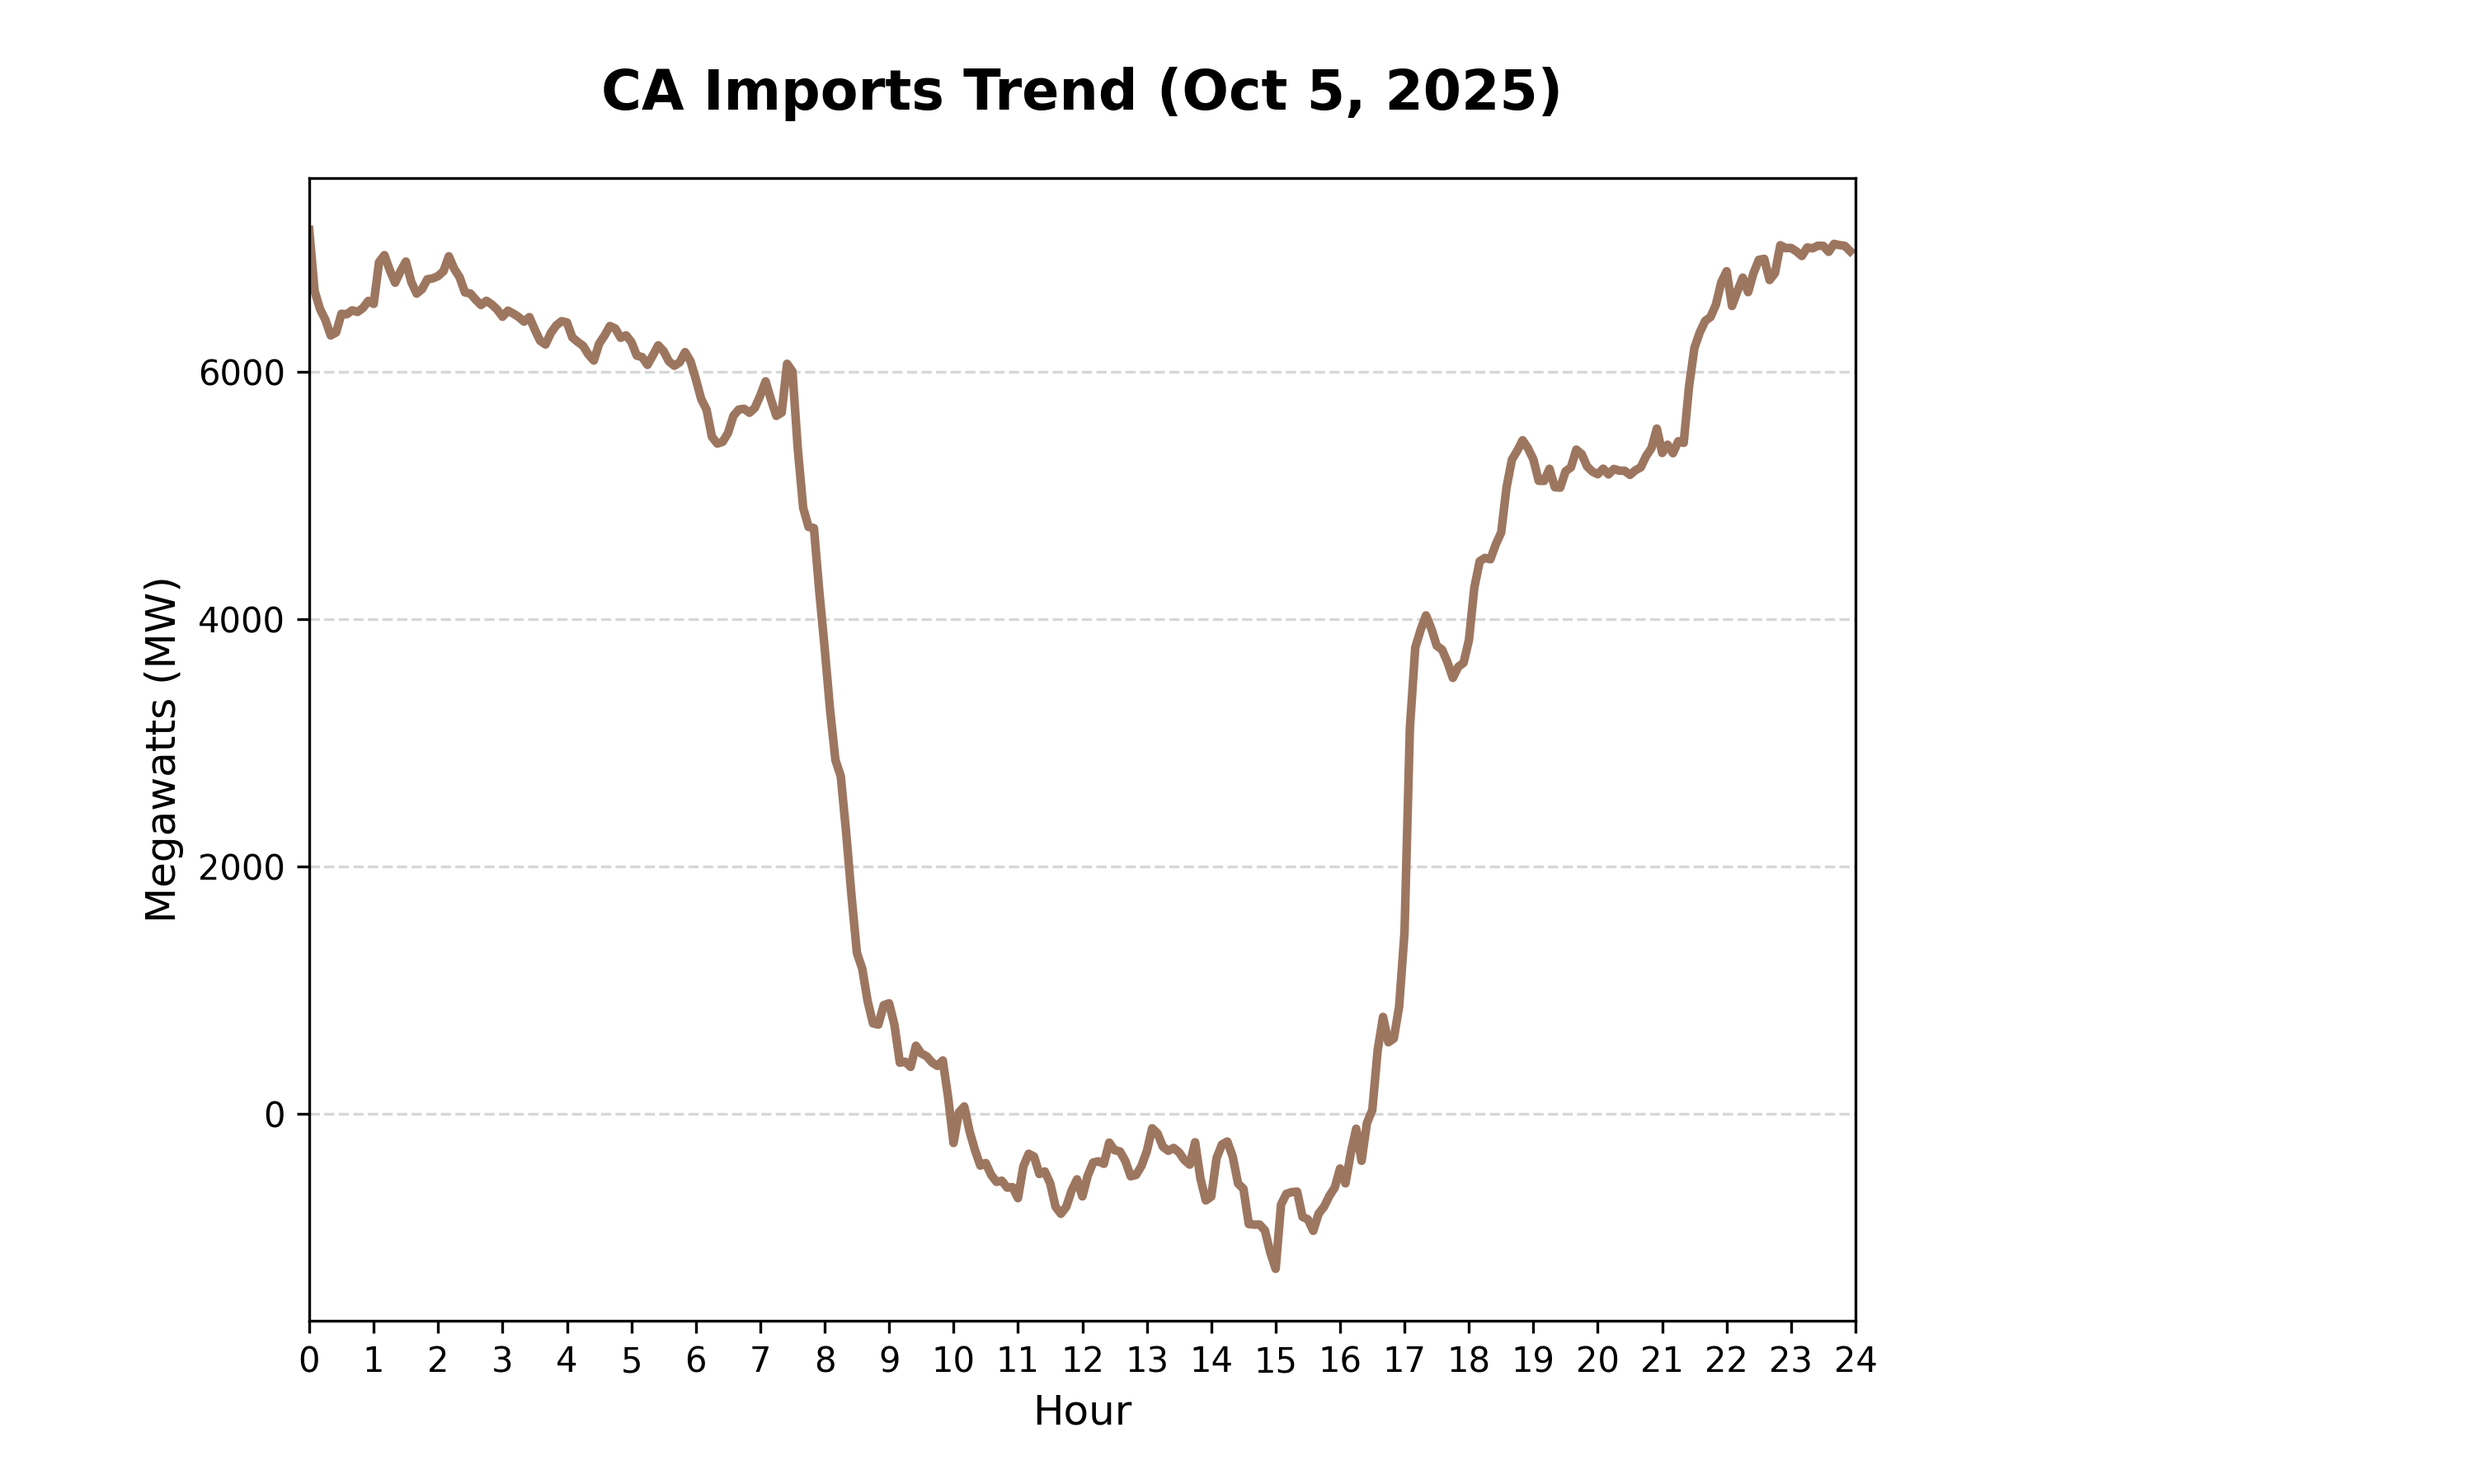
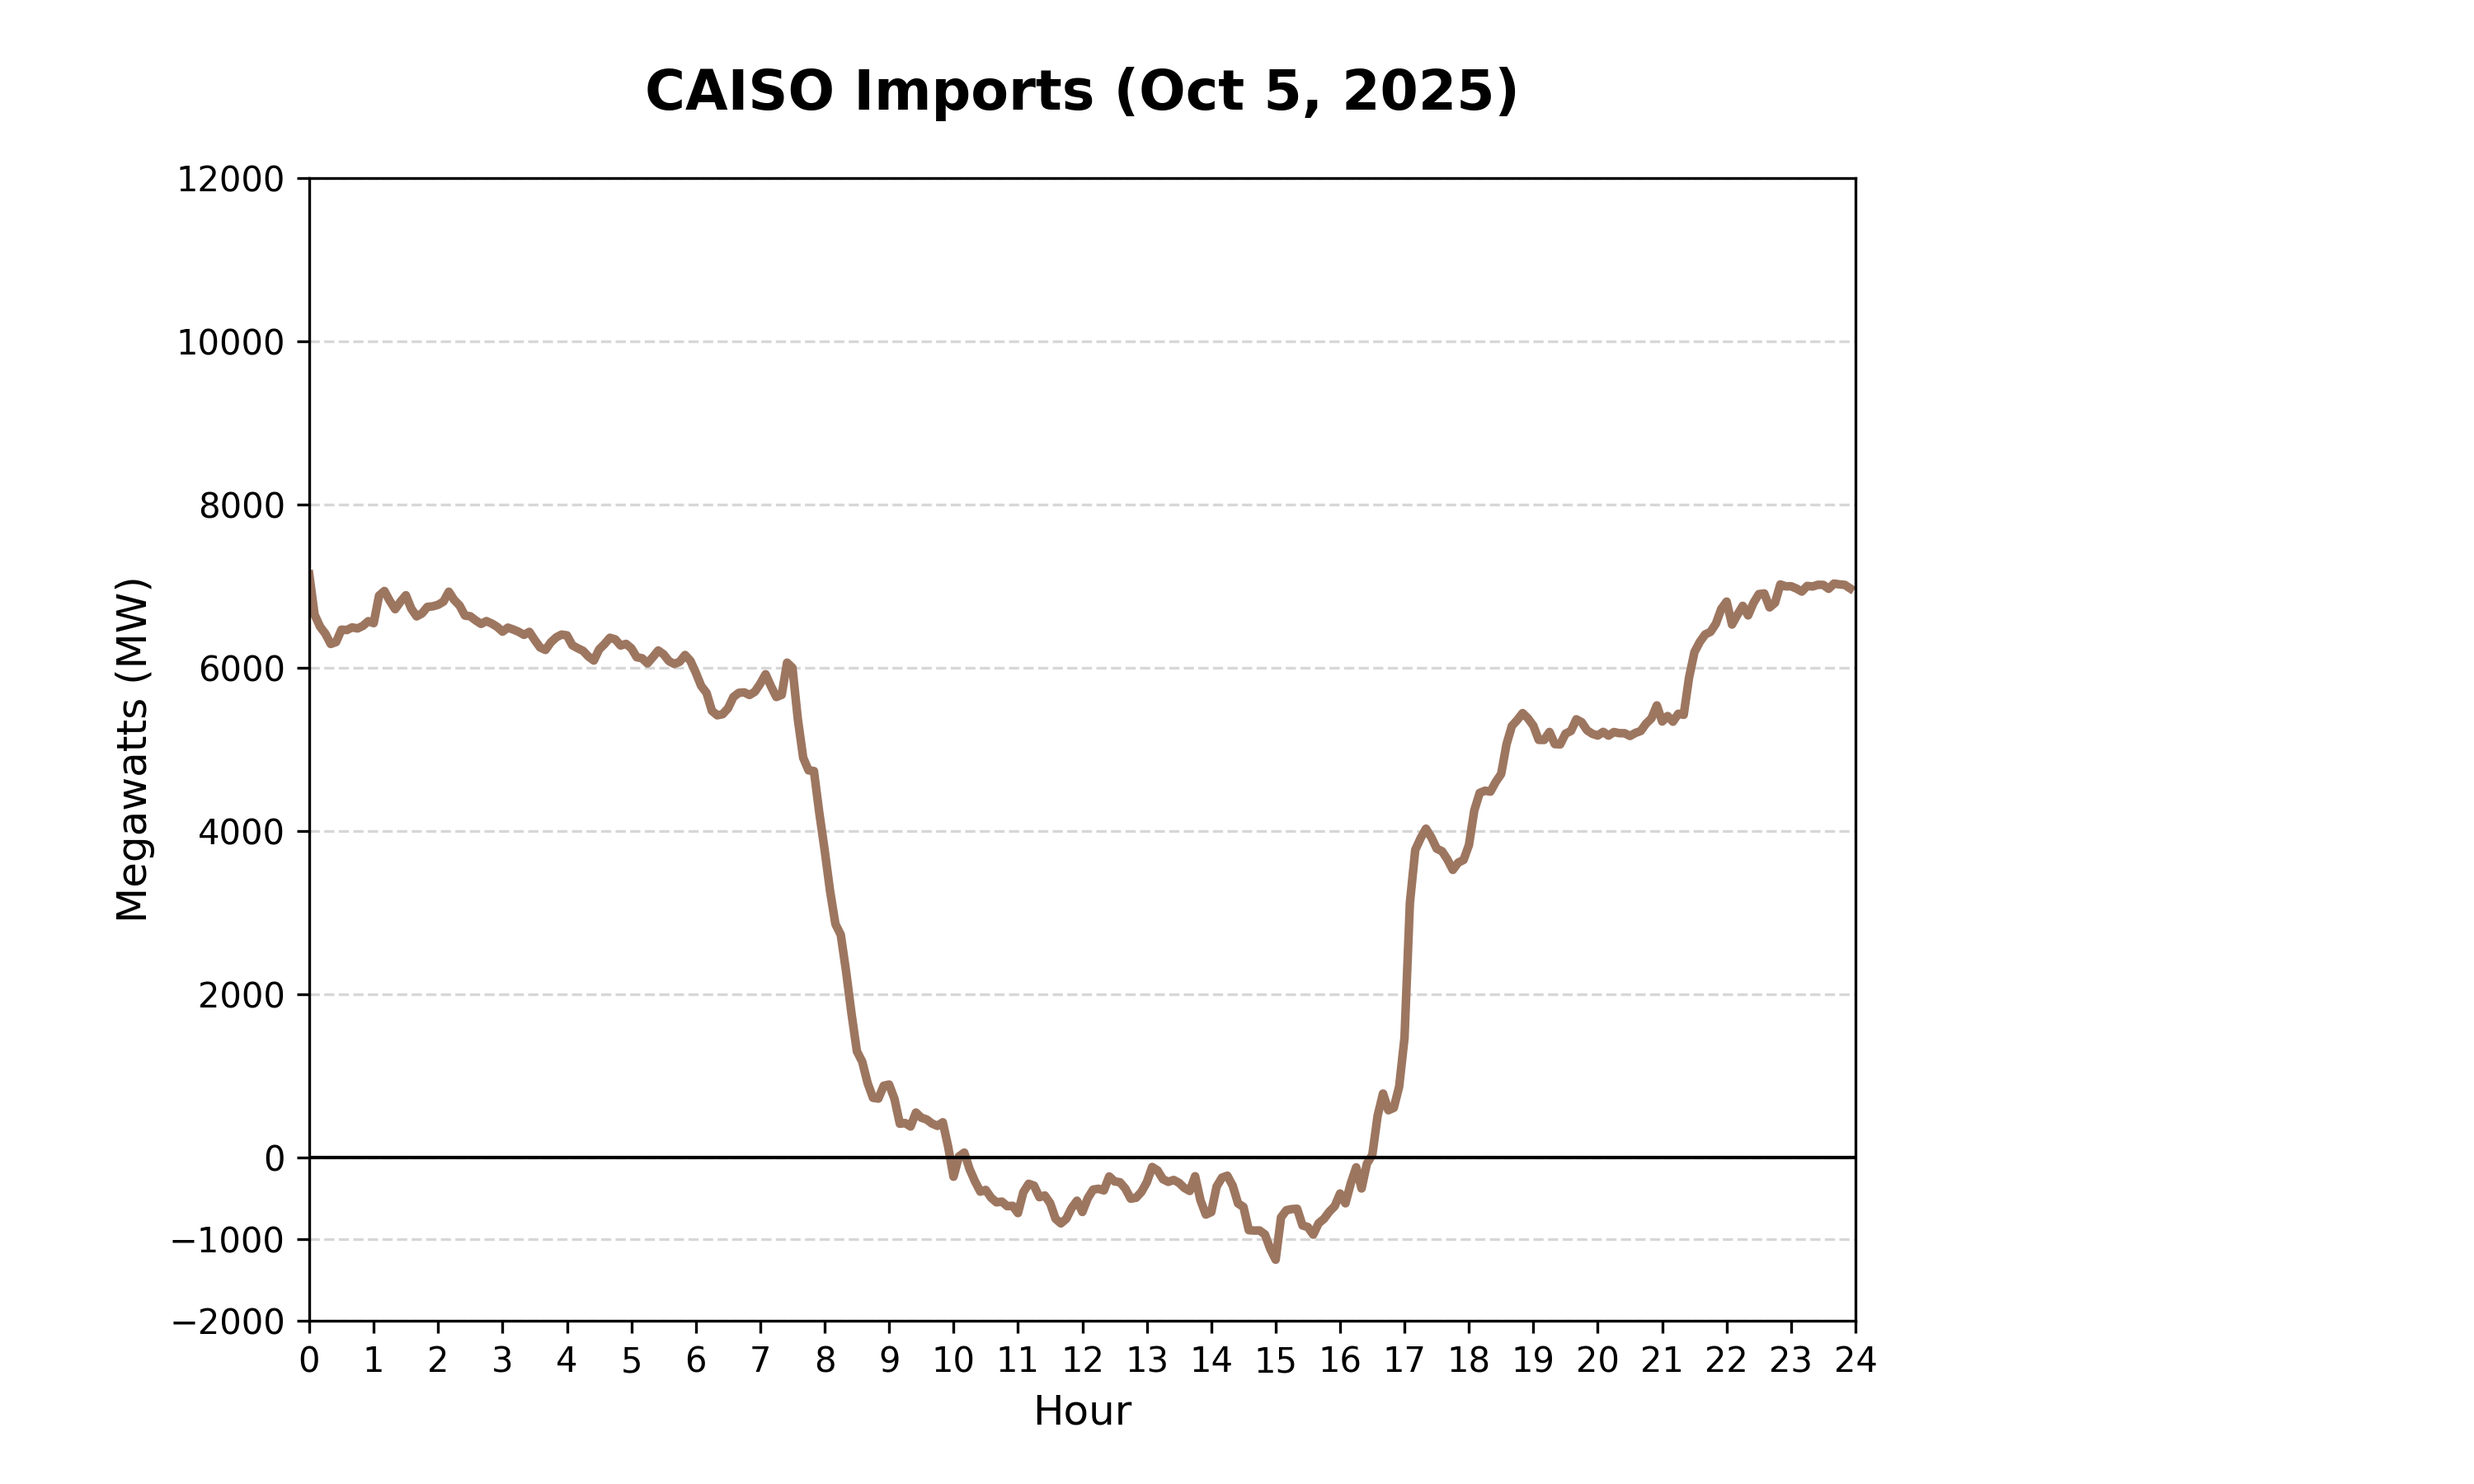
updated code for caiso

diff --git a/CAISO_ramp_record.py b/CAISO_ramp_record.py
@@ -31,22 +31,22 @@ SUPPLY_ORDER = [
 ]
 
 COLOR_MAP = {
-    'Renewables': '#54a24b',       # Green
-    'Solar': '#f28e2b',            # Orange
-    'Wind': '#4e79a7',             # Blue
-    'Natural gas': '#d37295',      # Rust/Pinkish 
-    'Large hydro': '#499894',      # Teal
-    'Small hydro': '#86bcb6',      # Light Teal
-    'Nuclear': '#e15759',          # Red
-    'Coal': '#000000',             # Black
-    'Imports': '#9d7660',          # Brown
-    'Batteries': '#5e4fa2',        # Purple
-    'Biomass': '#bab0ac',          # Grey
-    'Geothermal': '#59a14f',       # Green
-    'Biogas': '#ff9da7',           # Light Pink
-    'Other': '#d7d7d7',            # Light Grey
-    'Demand': '#499894',           # Teal Line
-    'Net demand': '#5e4fa2',       # Dark Purple Line/Area
+    'Renewables': '#54a24b',
+    'Solar': '#f28e2b',
+    'Wind': '#4e79a7',
+    'Natural gas': '#d37295', 
+    'Large hydro': '#499894',
+    'Small hydro': '#86bcb6',
+    'Nuclear': '#e15759',
+    'Coal': '#000000',
+    'Imports': '#9d7660',
+    'Batteries': '#5e4fa2',
+    'Biomass': '#bab0ac',
+    'Geothermal': '#59a14f',
+    'Biogas': '#ff9da7',
+    'Other': '#d7d7d7',
+    'Demand': '#499894',
+    'Net demand': '#5e4fa2',
     'Day-ahead net forecast': '#bab0ac', 
     'Hour-ahead forecast': '#76b7b2'
 }
@@ -190,9 +190,46 @@ def plot_imports(df, title, filename):
     
     fig, ax = plt.subplots(figsize=FIG_SIZE)
     ax.plot(range(len(df)), df[col_name], color=COLOR_MAP['Imports'], linewidth=2.5, label='Imports')
+    ax.axhline(0, color='black', linewidth=1)
     
     format_plot(ax, title, "Megawatts (MW)", len(df))
+    
+    y_min = df[col_name].min()
+    standard_ticks = [i for i in range(-4000, 12001, 2000)]
+    if -1000 not in standard_ticks:
+        standard_ticks.append(-1000)
+    standard_ticks.sort()
+    
+    ax.set_yticks(standard_ticks)
+    ax.set_ylim(bottom=-2000 if y_min > -2000 else y_min * 1.1)
+
     plt.subplots_adjust(right=0.75)
+    plt.savefig(filename, dpi=DPI)
+    plt.close()
+    print(f"✅ Generated: {filename}")
+
+def plot_natural_gas(df, title, filename):
+    """Generates a line graph for Natural Gas generation without redundant legend."""
+    if df is None: return
+    df = df.apply(pd.to_numeric, errors='coerce') # Remove fillna(0) here to catch real missing data
+    
+    if 'Natural gas' not in df.columns:
+        print(f"⚠ 'Natural gas' column not found in data.")
+        return
+
+    # --- FIX: Drop missing data (like the 24:00 mark) so it doesn't plot as zero ---
+    gas_data = df['Natural gas'].dropna()
+    
+    fig, ax = plt.subplots(figsize=FIG_SIZE)
+    
+    # Use the length of the cleaned data for the x-axis range
+    ax.plot(range(len(gas_data)), gas_data, color=COLOR_MAP['Natural gas'], linewidth=2.5)
+    
+    # We still use the original df length for format_plot to keep the 0-24 labels consistent
+    format_plot(ax, title, "Generation (MW)", len(df))
+    
+    # Legend removed per request
+    
     plt.savefig(filename, dpi=DPI)
     plt.close()
     print(f"✅ Generated: {filename}")
@@ -201,21 +238,27 @@ def plot_imports(df, title, filename):
 def main():
     print("--- Starting Graph Generation ---")
     
-    # Titles updated with "CA" prefix
-    plot_supply_trend(load_and_transpose_data(FILES['supply']), 
-                      "CA Supply Trend (Oct 5, 2025)", "1_Supply_Trend.png")
+    # Load supply once to use for multiple graphs
+    supply_df = load_and_transpose_data(FILES['supply'])
+    
+    plot_supply_trend(supply_df, 
+                      "CAISO Supply (Oct 5, 2025)", "1_Supply.png")
 
     plot_renewables(load_and_transpose_data(FILES['renewables']), 
-                      "CA Renewables Trend (Oct 5, 2025)", "2_Renewables_Trend.png")
+                      "CAISO Renewables (Oct 5, 2025)", "2_Renewables.png")
 
     plot_net_demand(load_and_transpose_data(FILES['net_demand']), 
-                      "CA Net Demand Trend (Oct 5, 2025)", "3_Net_Demand.png")
+                      "CAISO Demand and Net Demand (Oct 5, 2025)", "3_Net_Demand.png")
 
     plot_batteries(load_and_transpose_data(FILES['batteries']), 
-                      "CA Batteries Trend (Oct 5, 2025)", "4_Batteries.png")
+                      "CAISO Batteries (Oct 5, 2025)", "4_Batteries.png")
 
     plot_imports(load_and_transpose_data(FILES['imports']), 
-                      "CA Imports Trend (Oct 5, 2025)", "5_Imports.png")
+                      "CAISO Imports (Oct 5, 2025)", "5_Imports.png")
+
+    # New Natural Gas Generation Graph
+    plot_natural_gas(supply_df, 
+                      "CAISO Natural Gas Generation (Oct 5, 2025)", "6_Natural_Gas.png")
     
     print("--- All Graphs Completed ---")
 
